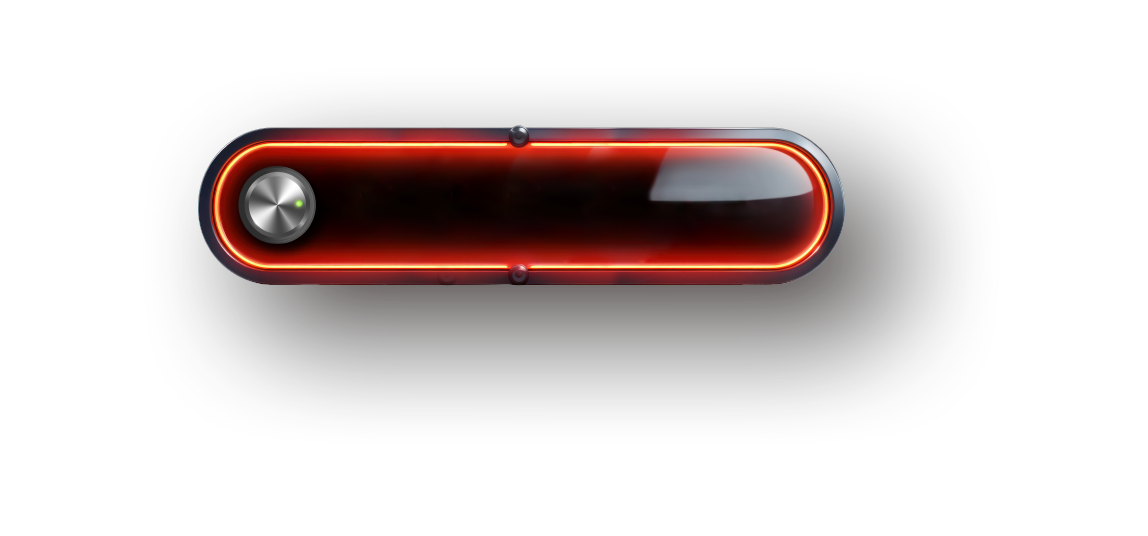
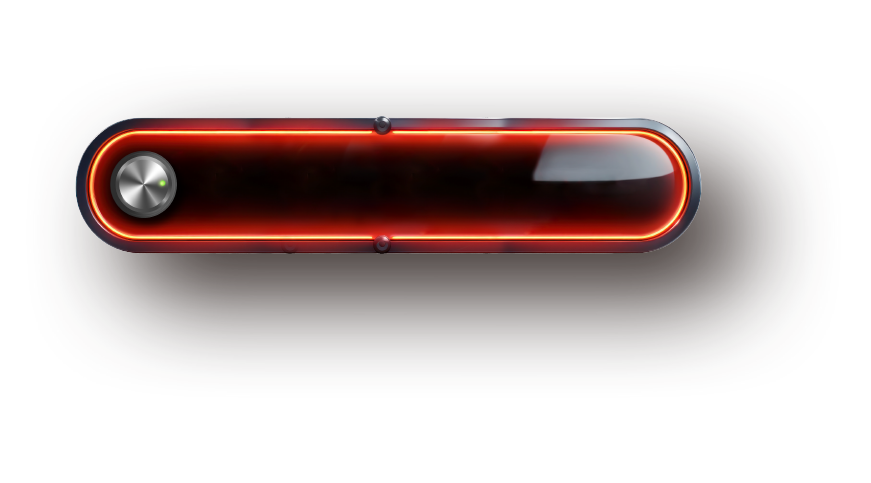
수정

Changed region(s): [[0.062, 0.2174, 0.93, 0.7143]]

diff --git a/css/style.css b/css/style.css
@@ -1362,7 +1362,7 @@ img {
   .fail-mo-back {
     z-index: 4;
     top: 48%;
-    left: 0;
+    left: 1%;
     right: 0;
     width: 100%;
     margin: 0 auto;
@@ -1373,7 +1373,7 @@ img {
   #screen-step1-fail .fail-mo-emoji-bar1 {
     z-index: 6;
     top: 49.2%;
-    left: 0;
+    left: -4%;
     right: 0;
     width: 68%;
     margin: 0 auto;
@@ -1381,7 +1381,7 @@ img {
   #screen-step1-fail .fail-mo-emoji-bar2 {
     z-index: 6;
     top: 61.8%;
-    left: 0;
+    left: -4%;
     right: 0;
     width: 68%;
     margin: 0 auto;
@@ -1389,16 +1389,16 @@ img {
 
   #screen-step2-fail .fail-mo-emoji-bar1 {
     z-index: 6;
-    top: 49.5%;
-    left: 0;
+    top: 49.7%;
+    left: -4%;
     right: 0;
     width: 68%;
     margin: 0 auto;
   }
   #screen-step2-fail .fail-mo-emoji-bar2 {
     z-index: 6;
-    top: 61.3%;
-    left: 0;
+    top: 61.5%;
+    left: -4%;
     right: 0;
     width: 68%;
     margin: 0 auto;
@@ -1418,9 +1418,11 @@ img {
      width: 343px, height: 159px → top: (844-159-30)/844 ≈ 78% */
   .fail-mo-button {
     z-index: 3;
-    top: 72.3%;
-    left: 1%;
-    width: 99%;
+    top: 72%;
+    left: 4%;
+    right: 0;
+    width: 100%;
+    margin: 0 auto;
   }
 
   /* 투명 클릭 버튼 — fail-mo-button 커버 (step1·2 공통) */
@@ -1783,7 +1785,7 @@ img {
     z-index: 5;
     top: 78%;
     left: 6%;
-    width: 88%;
+    width: 89%;
   }
 
   /* 투명 클릭 버튼 */
@@ -1840,8 +1842,8 @@ img {
   #screen-step3-suc .suc-mo-button {
     z-index: 1;
     top: 77.2%;
-    left: 4.5%;
-    width: 120%;
+    left: 10%;
+    width: 88%;
   }
 }
 
@@ -1993,12 +1995,12 @@ img {
   /* 명판 배경 */
   #screen-step3-fail .fail-mo-back {
     z-index: 4;
-    top: 43%;
+    top: 47%;
     left: 0;
     right: 0;
     width: 100%;
     margin: 0 auto;
-    height: 31%;
+    height: 34%;
   }
 
   /* 텍스트 오버레이 */
@@ -2007,30 +2009,36 @@ img {
     top: 0;
     left: 0;
     right: 0;
-    width: 83%;
+    width: 90%;
     margin: 0 auto;
   }
 
   /* 네온 버튼 */
   #screen-step3-fail .fail-mo-button {
     z-index: 5;
-    top: 69%;
-    left: -0.1%;
-    width: 100%;
+    top: 75%;
+    left: 9%;
+    right: 0;
+    width: 93%;
+    margin: 0 auto;
   }
 
   /* 명판 위 하얀바+이모지 */
   #screen-step3-fail .fail-mo-emoji-bar1 {
     z-index: 6;
-    top: 44.3%; /* TODO: 조정 필요 */
-    left: 11.8%;
-    width: 68%;
+    top: 47.6%;
+    left: 3%;
+    right: 0;
+    width: 85%;
+    margin: 0 auto;
   }
   #screen-step3-fail .fail-mo-emoji-bar2 {
     z-index: 6;
-    top: 56%; /* TODO: 조정 필요 */
-    left: 12.6%;
-    width: 68%;
+    top: 60.3%;
+    left: 5%;
+    right: 0;
+    width: 85%;
+    margin: 0 auto;
   }
 
   /* 투명 클릭 버튼 */

diff --git a/index.html b/index.html
@@ -1246,7 +1246,7 @@
           />
           <img
             class="fail-mo-layer fail-mo-back"
-            src="image/step3/fail/item-mobile/예방안내배경.png"
+            src="image/step3/fail/item-mobile/스테이지3 실패 스틸박스.png"
             alt=""
             aria-hidden="true"
             draggable="false"
